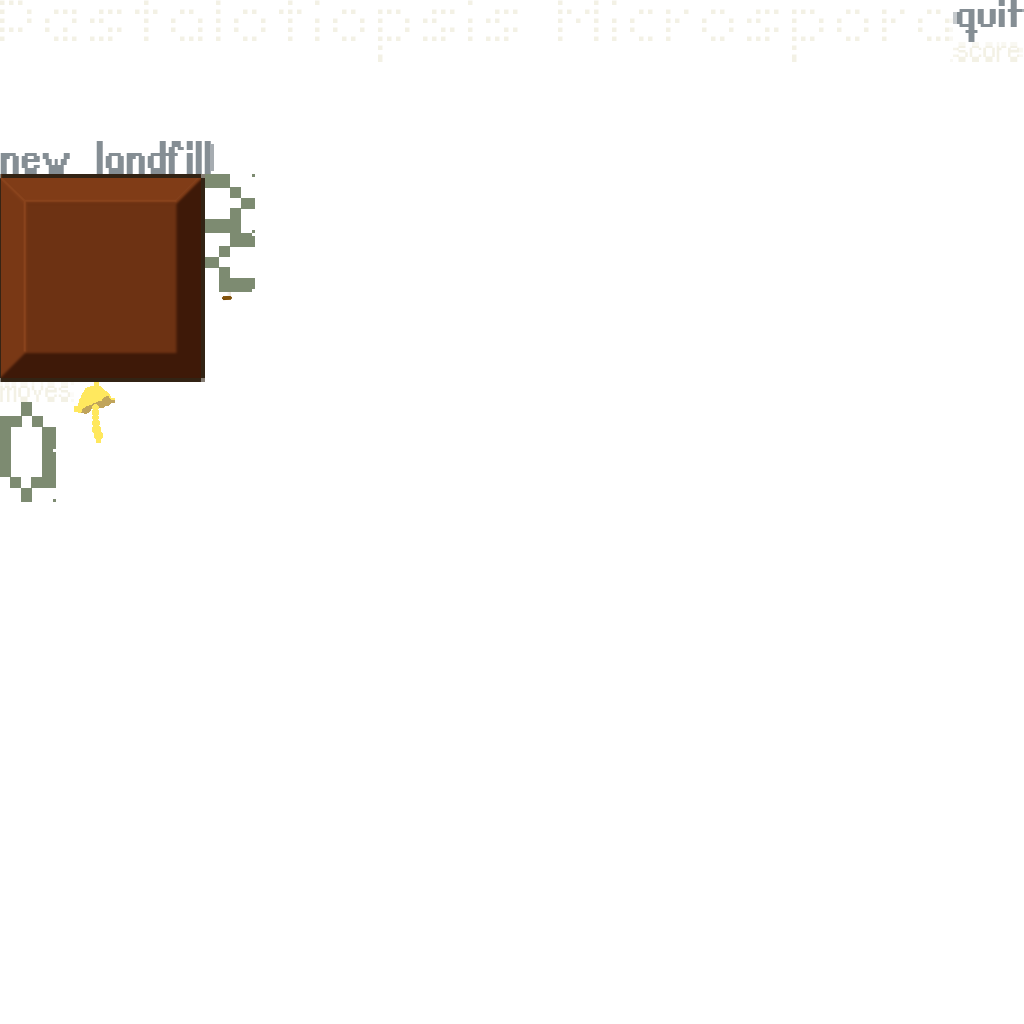
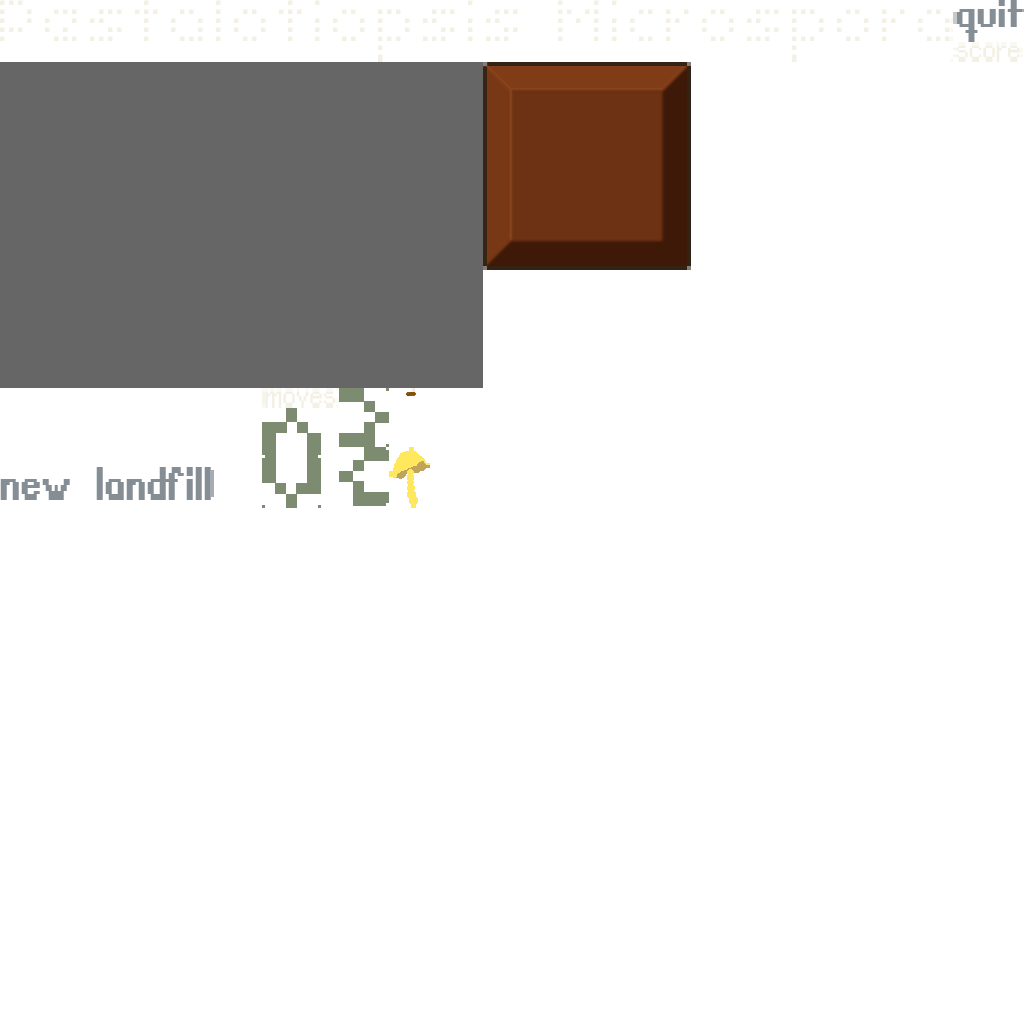
Init GameOverUI graphics and placement

Changed region(s): [[0.0, 0.0625, 0.6875, 0.5]]

diff --git a/pm-desktop/src/com/ivanarellano/game/pm/GameOverUI.java b/pm-desktop/src/com/ivanarellano/game/pm/GameOverUI.java
@@ -1,0 +1,62 @@
+package com.ivanarellano.game.pm;
+
+import com.badlogic.gdx.scenes.scene2d.Group;
+import com.badlogic.gdx.scenes.scene2d.ui.Image;
+import com.badlogic.gdx.scenes.scene2d.ui.Label;
+import com.ivanarellano.game.pm.Assets.LabelStyles;
+
+public class GameOverUI extends Group {
+	PmGame game;
+	
+	Image tintOverlay = new Image(Assets.atlas.findRegion("tintoverlay"));
+	Image logo = new Image(Assets.atlas.findRegion("logogameover")); 
+	Image newGame = new Image(Assets.atlas.findRegion("newlandgameover"));
+	Image quitGame = new Image(Assets.atlas.findRegion("quitgameover"));
+	Image scoreText = new Image(Assets.atlas.findRegion("scoregameover"));
+	Label scoreNumber = new Label("0", LabelStyles.MOVES_COUNTER);
+	
+	boolean isActive = false;
+	
+	public GameOverUI(PmGame game) {
+		this.game = game;
+		
+		logo.x = PmGame.SCREEN_WIDTH - logo.width - 10;
+		logo.y = PmGame.SCREEN_HEIGHT - logo.height - 40;
+		
+		newGame.touchable = true;
+		newGame.x = PmGame.SCREEN_WIDTH - newGame.width - 10;
+		newGame.y = PmGame.SCREEN_HEIGHT - newGame.height - 211;
+		
+		quitGame.touchable = true;
+		quitGame.x = PmGame.SCREEN_WIDTH - quitGame.width - 10;
+		quitGame.y = PmGame.SCREEN_HEIGHT - quitGame.height - 288;
+		
+		scoreNumber.x = PmGame.SCREEN_WIDTH - scoreNumber.width - 165;
+		scoreNumber.y = -50;
+		
+		scoreText.x = PmGame.SCREEN_WIDTH - scoreText.width - 156;
+		scoreText.y = 20;
+		
+		tintOverlay.setFillParent(true);
+	}
+	
+	public void init() {
+		isActive = true;
+		
+		addActor(logo);
+		addActor(newGame);
+		addActor(quitGame);
+		addActor(scoreNumber);
+		addActor(scoreText);
+		
+		game.stage.addActor(tintOverlay);
+		game.stage.addActor(this);
+	}
+	
+	public void removeUI() {
+		isActive = false;
+		
+		game.stage.removeActor(tintOverlay);
+		game.stage.removeActor(this);
+	}
+}

diff --git a/pm-desktop/src/com/ivanarellano/game/pm/screen/GameScreen.java b/pm-desktop/src/com/ivanarellano/game/pm/screen/GameScreen.java
@@ -12,17 +12,21 @@ import com.ivanarellano.game.pm.Assets;
 import com.ivanarellano.game.pm.Assets.Colors;
 import com.ivanarellano.game.pm.Board;
 import com.ivanarellano.game.pm.Direction;
+import com.ivanarellano.game.pm.GameOverUI;
 import com.ivanarellano.game.pm.GameState;
 import com.ivanarellano.game.pm.PmGame;
 import com.ivanarellano.game.pm.PmScreen;
 
 public class GameScreen extends PmScreen {
 	GameState state = GameState.READY;
-	Board board = new Board("123658740");
+	//Board board = new Board("123658740");
+	Board board = new Board("123456780");
 	Group groupBoard = new Group("board");
 	Group groupTiles = new Group("tiles");
-	public Image grassBoard = new Image(Assets.atlas.findRegion("grassboard"));
-	public int totalMoves = 0;
+	Image grassBoard = new Image(Assets.atlas.findRegion("grassboard"));
+	GameOverUI gameOverUI = new GameOverUI(this.game);
+	
+	int totalMoves = 0;
 
 	public GameScreen(PmGame game) {
 		super(game);
@@ -109,7 +113,7 @@ public class GameScreen extends PmScreen {
 			}
 			
 		} else if (state == GameState.OVER) {
-			
+			gameOverUI.init();
 		}
 	}
 

diff --git a/pm-android/src/com/ivanarellano/game/pm/pmActivity.java b/pm-android/src/com/ivanarellano/game/pm/pmActivity.java
@@ -4,7 +4,7 @@ import android.os.Bundle;
 
 import com.badlogic.gdx.backends.android.AndroidApplication;
 
-public class pmActivity extends AndroidApplication {
+public class PmActivity extends AndroidApplication {
     /** Called when the activity is first created. */
     @Override
     public void onCreate(Bundle savedInstanceState) {
